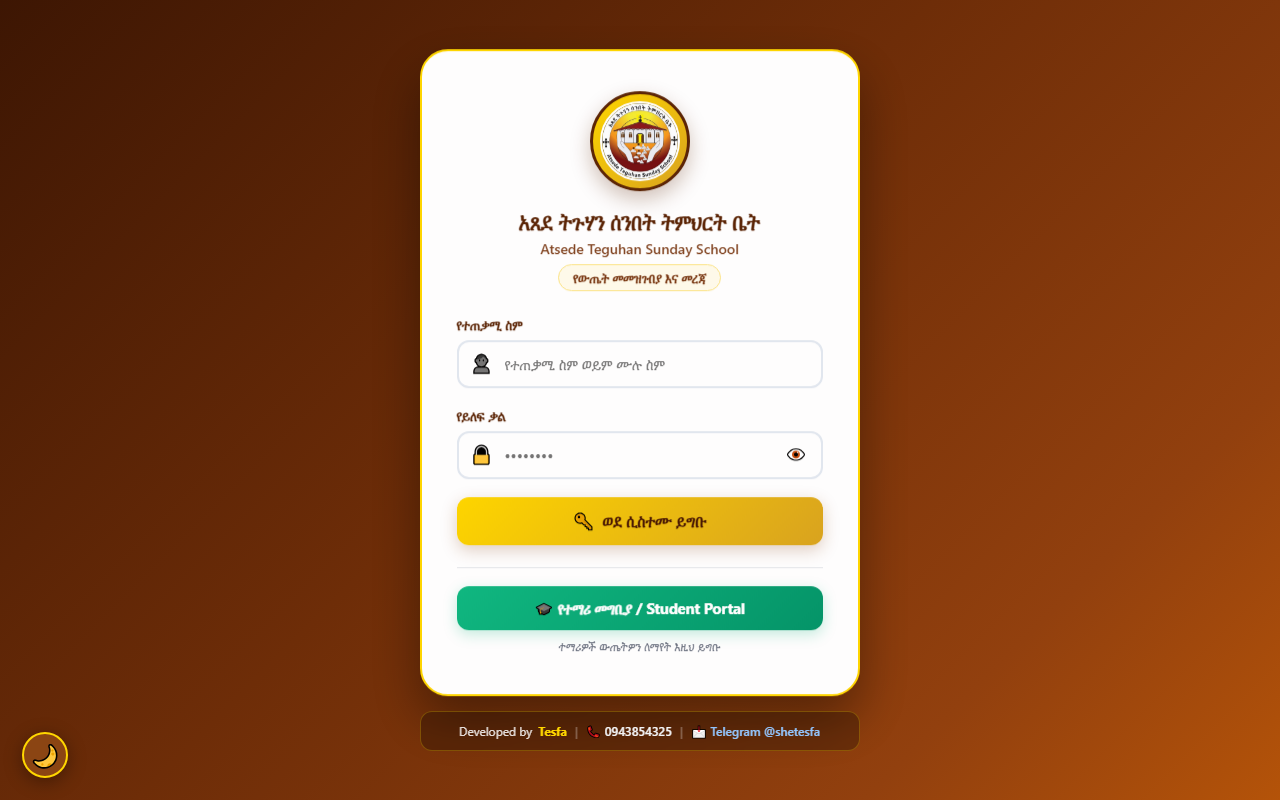
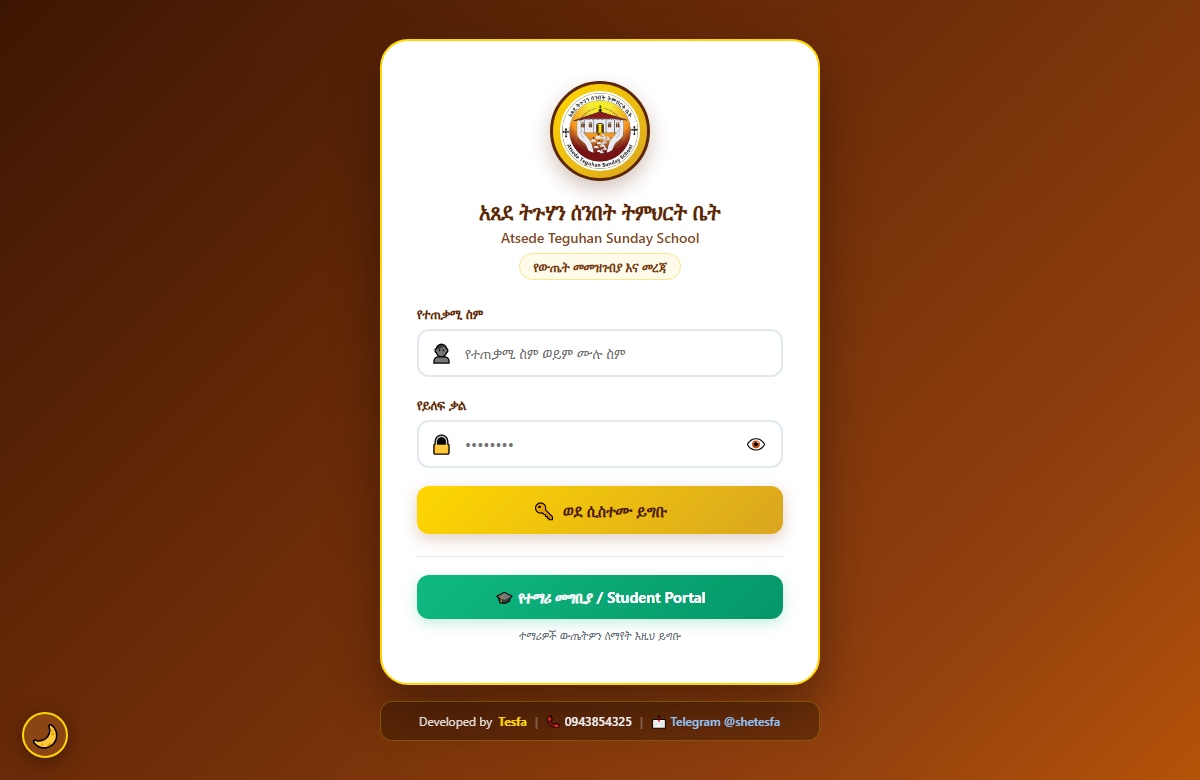
Update clean high-resolution guide screenshots and fix offline auth view

Changed region(s): [[0.3083, 0.0308, 0.7092, 0.9538], [0.0, 0.8923, 0.0617, 0.9846]]

diff --git a/offline.html b/offline.html
@@ -260,7 +260,7 @@ body { background: var(--bg-page); color: var(--text-primary); min-height: 100vh
 
 <div class="container">
     <!-- AUTHENTICATION CARD (Shown when not logged in) -->
-    <div id="authView" class="card auth-box" style="display:none;">
+    <div id="authView" class="card auth-box">
         <img src="images/icon.png" class="auth-logo" alt="Logo">
         <h2 style="color:var(--brown-dark); margin-bottom:4px; font-size:20px;">Offline መግቢያ</h2>
         <p style="color:#666; font-size:13px; margin-bottom:20px;">በዚህ መሳሪያ ላይ ቀደም ሲል የገቡበትን የተጠቃሚ ስም ያስገቡ</p>
